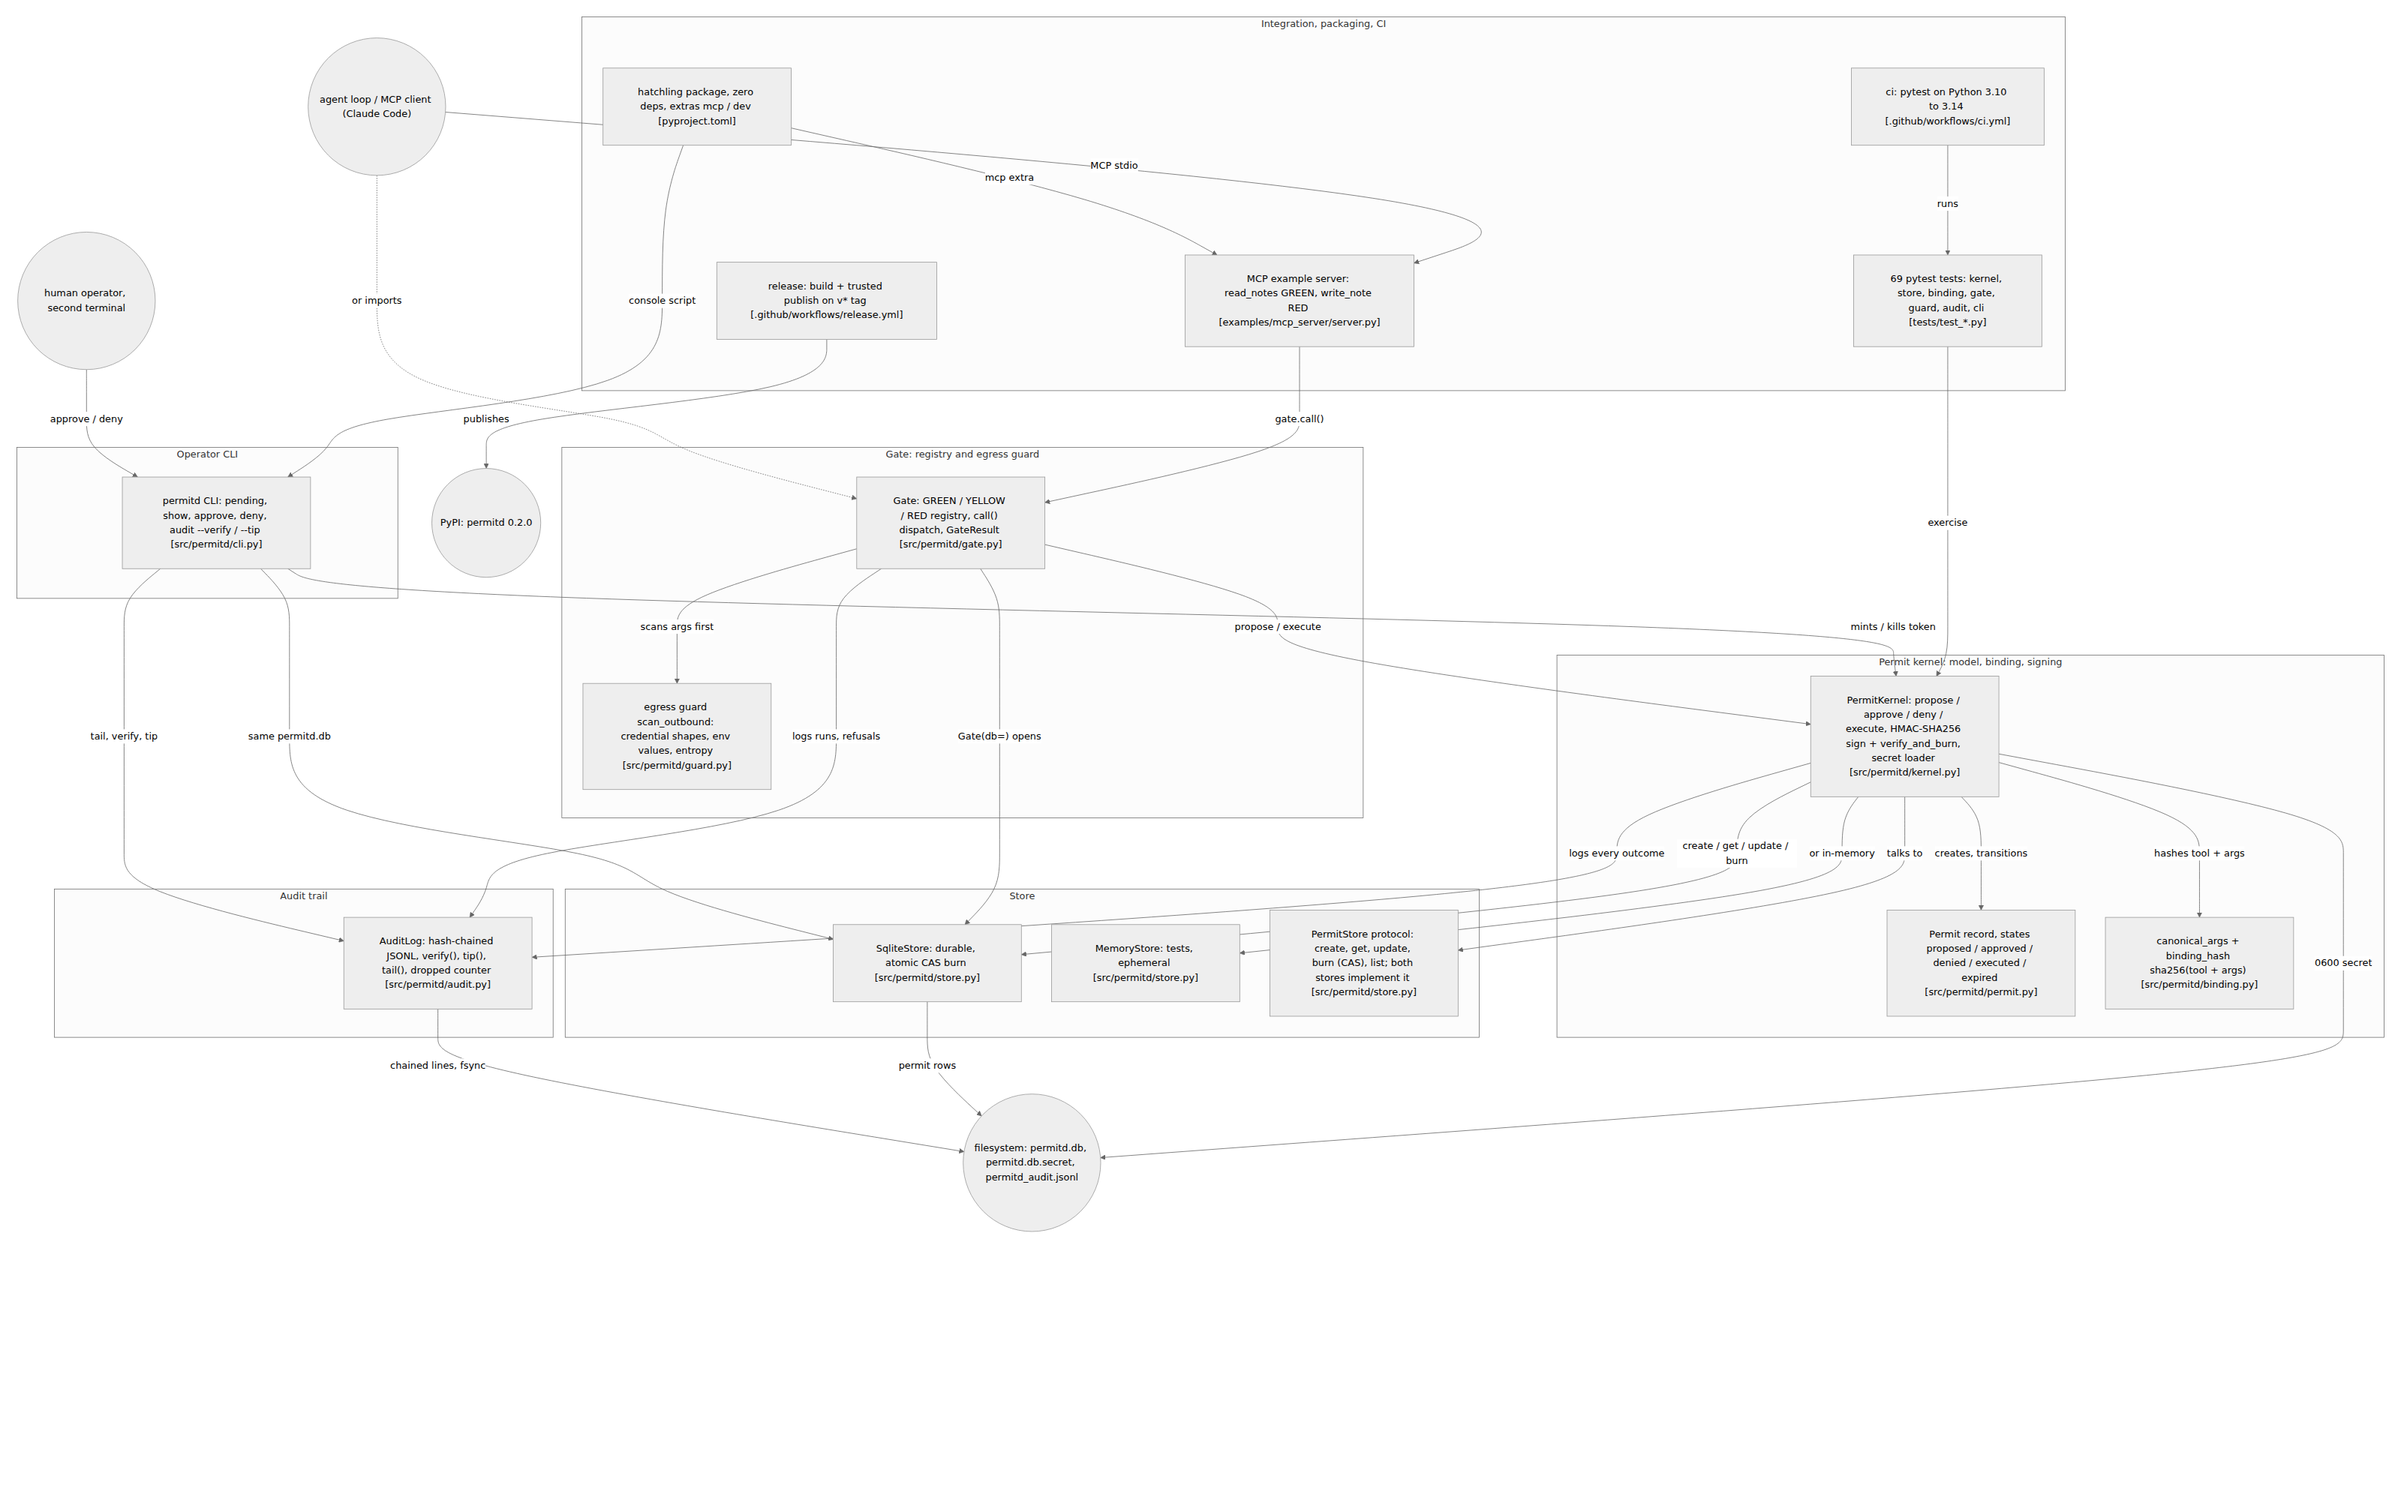
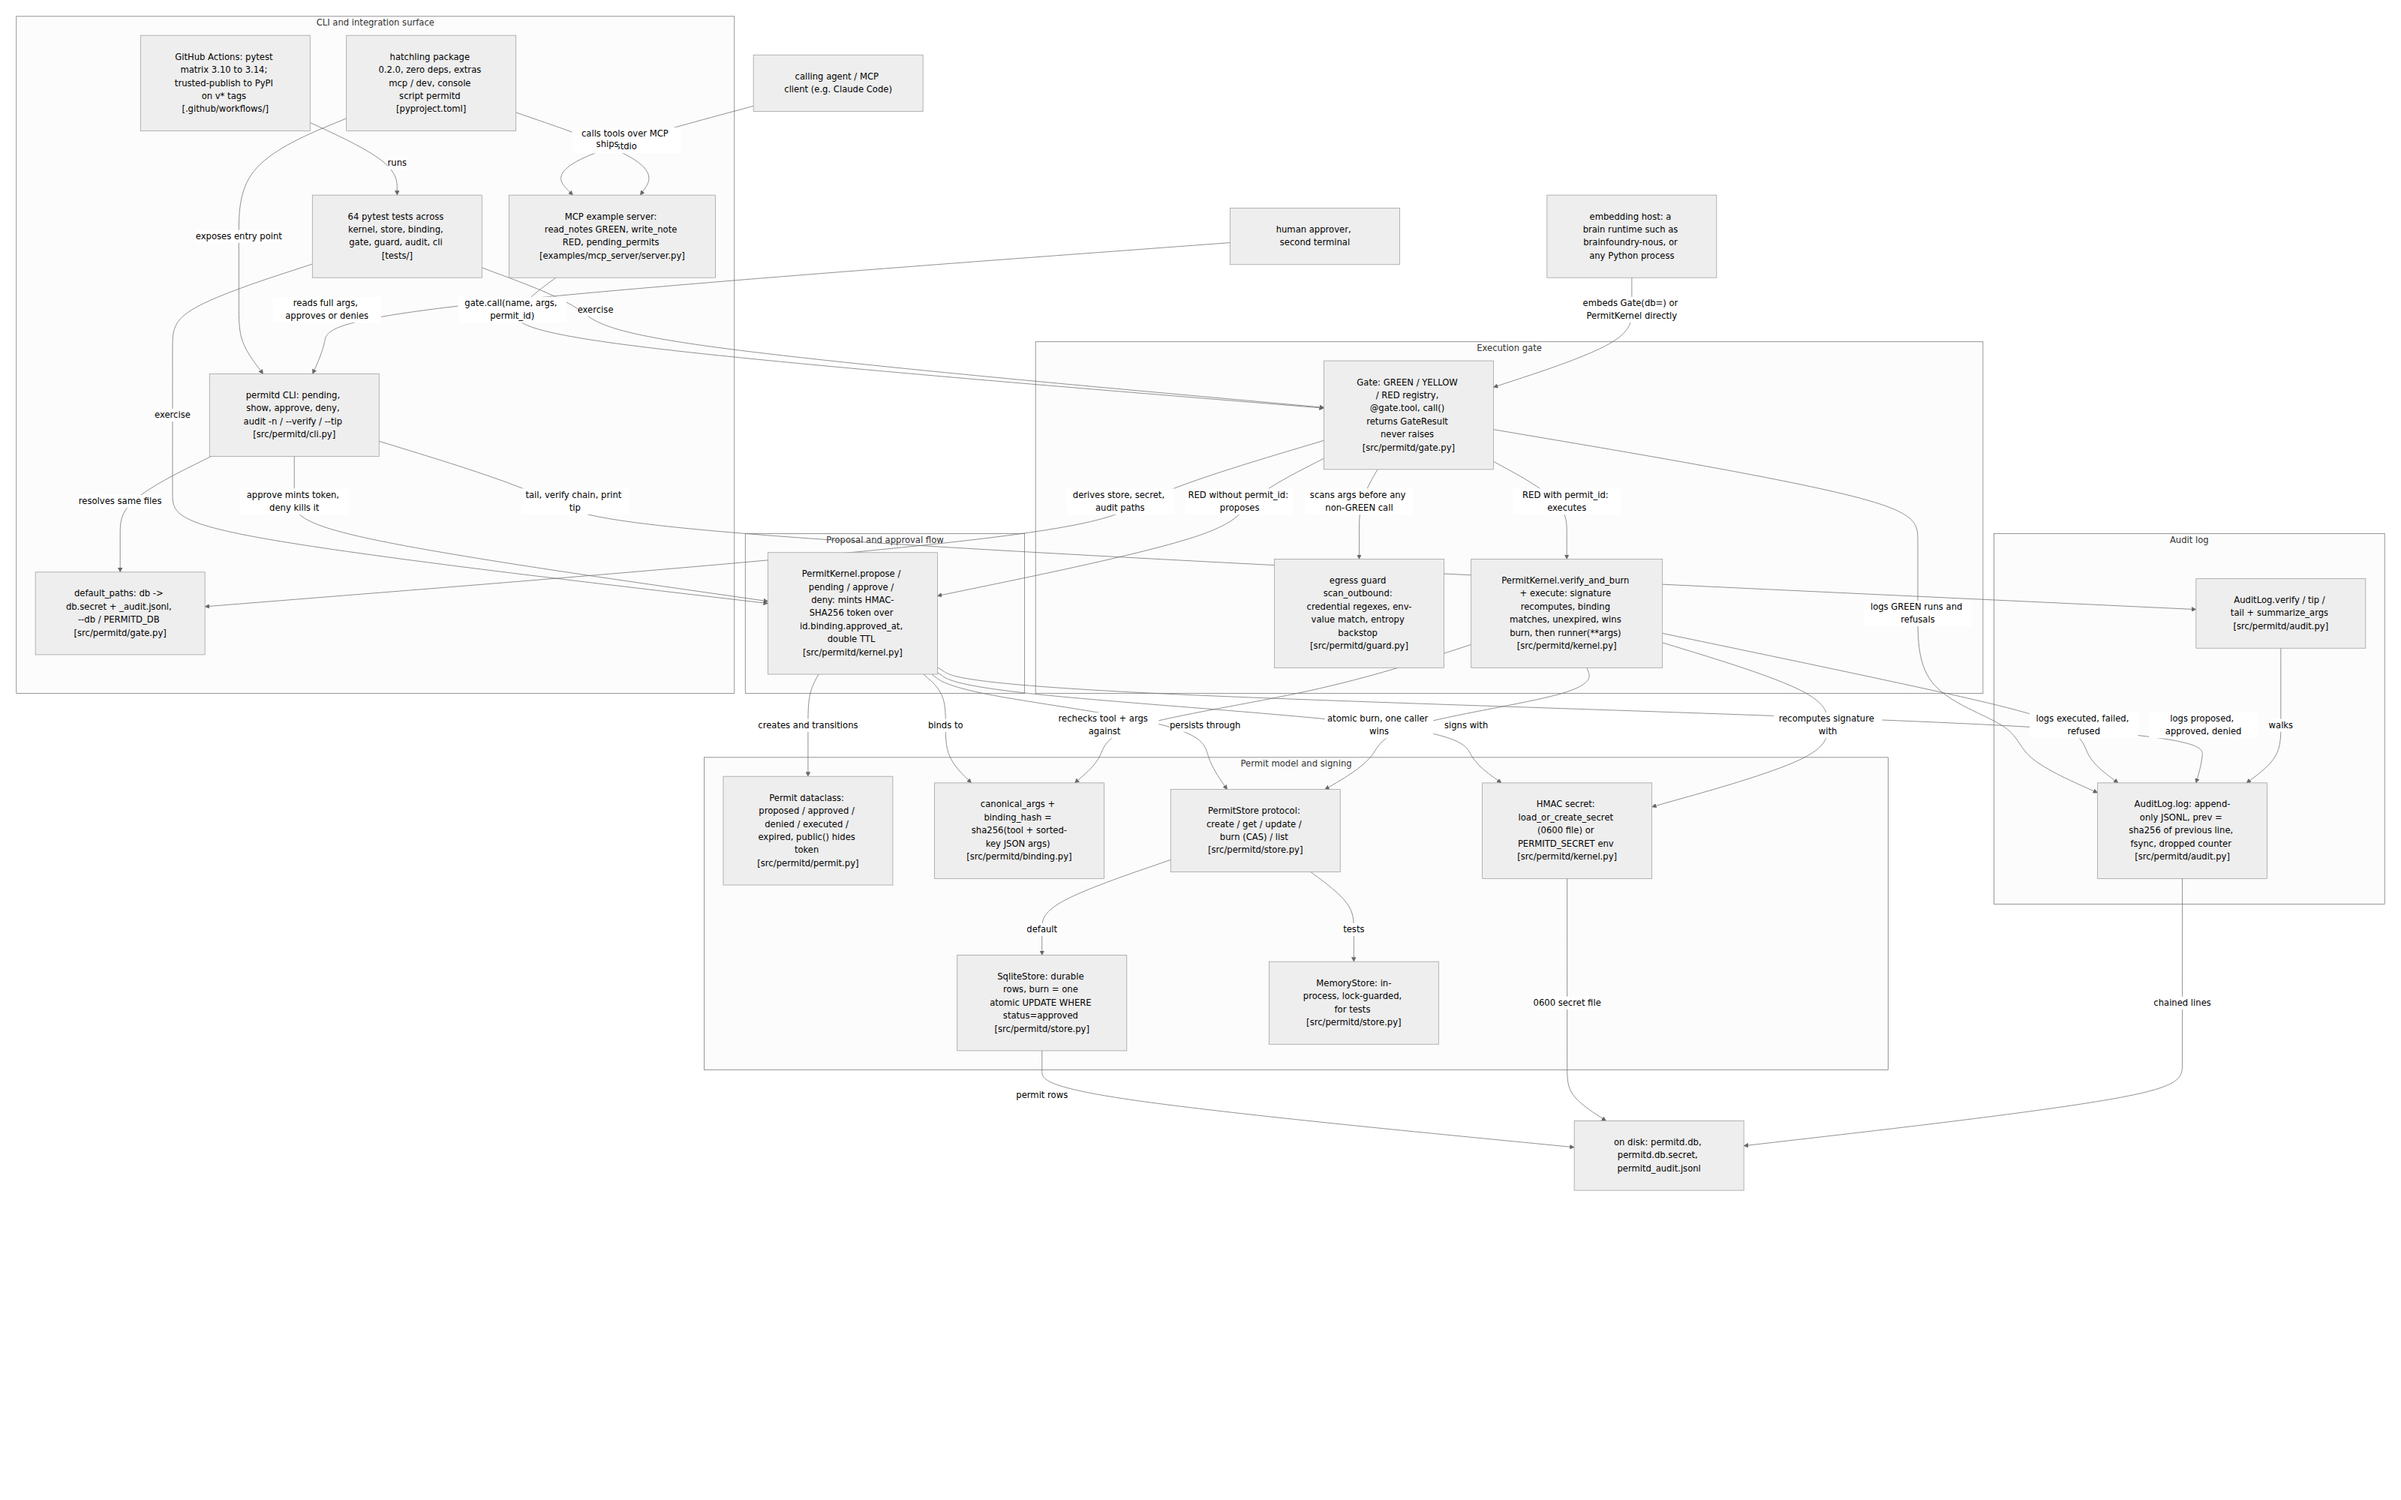
docs: architecture diagram, mermaid + PNG (2026-10-25)

diff --git a/docs/architecture.md b/docs/architecture.md
@@ -7,17 +7,16 @@ created: 2026-10-25
 
 Diagram: [architecture.mmd](architecture.mmd) (mermaid 11, `flowchart TD`) rendered to [architecture.png](architecture.png).
 
-permitd is a stdlib-only Python library (plus a `permitd` console script) that holds the state of "may this tool call run?" across turns of an agent loop. An agent, usually through the MCP example server or by importing `Gate` directly, calls a tool; `Gate` runs the egress guard over the arguments, then for RED-tier tools asks `PermitKernel` to propose a permit bound to `sha256(tool + canonical args)`. A human approves or denies from the `permitd` CLI in another process, which shares the same SQLite store, secret file and audit log via `default_paths`; approval mints a single-use HMAC-SHA256 token with a TTL. The agent's retry carries the permit id, the kernel recomputes the signature, checks the binding and expiry, wins the atomic burn in the store, runs the tool, and every outcome (including refusals) lands as one hash-chained JSONL line that `permitd audit --verify` can walk.
+permitd is a stdlib-only Python library (plus a `permitd` console script) that holds the state of "may this tool call run?" across turns of an agent loop. A host process (the MCP example server, a brain runtime such as brainfoundry-nous, or any Python program) registers tools on a `Gate` with GREEN / YELLOW / RED tiers. Every non-GREEN call first passes the egress guard; a RED call without a `permit_id` makes `PermitKernel.propose` record a `Permit` bound to `sha256(tool + canonical args)` and returns `approval_required`. A human approves or denies from the `permitd` CLI in another process, which meets the library on the same SQLite store, secret file and audit log through `default_paths`; approval mints a single-use HMAC-SHA256 token with a TTL. The agent's retry carries the permit id, `verify_and_burn` recomputes the signature, checks the binding and expiry, wins the atomic compare-and-swap burn in the store, and only then runs the tool. Every outcome, including refusals, lands as one hash-chained JSONL line that `permitd audit --verify` can walk.
 
 | subgraph | responsible for | key files |
 |---|---|---|
-| Gate: registry and egress guard | GREEN/YELLOW/RED tier registry, `call()` dispatch, uniform `GateResult`, standing authorization for YELLOW, egress scan of outbound arguments before any non-GREEN call (including at propose time) | `src/permitd/gate.py`, `src/permitd/guard.py` |
-| Permit kernel: model, binding, signing | propose / approve / deny / verify_and_burn / execute, HMAC-SHA256 token minting and recomputation, double TTL, the `Permit` dataclass and its five states, argument canonicalization and binding hash, secret loading (0600 file or `PERMITD_SECRET`) | `src/permitd/kernel.py`, `src/permitd/permit.py`, `src/permitd/binding.py` |
-| Store | `PermitStore` protocol (five methods, compare-and-swap `burn`), durable `SqliteStore` with atomic burn, `MemoryStore` for tests | `src/permitd/store.py` |
-| Audit trail | append-only JSONL with `prev` = sha256 of the previous line, `verify()`, `tip()`, `tail()`, best-effort writes with a `dropped` counter, `summarize_args` | `src/permitd/audit.py` |
-| Operator CLI | `permitd pending / show / approve / deny / audit [-n, --verify, --tip]`, store selection by `--db`, `$PERMITD_DB` or `./permitd.db` | `src/permitd/cli.py` |
-| Integration, packaging, CI | MCP example server (read_notes GREEN, write_note RED, pending_permits), hatchling package with `mcp` and `dev` extras and the console script, pytest on Python 3.10 to 3.14, trusted-publishing release on `v*` tags, 69 tests across seven files | `examples/mcp_server/server.py`, `pyproject.toml`, `.github/workflows/ci.yml`, `.github/workflows/release.yml`, `tests/` |
+| Permit model and signing | the `Permit` dataclass and its five states (`public()` never exposes the token), argument canonicalization and binding hash, HMAC secret loading (0600 file or `PERMITD_SECRET`), the `PermitStore` protocol with compare-and-swap `burn`, `SqliteStore` (default) and `MemoryStore` (tests) | `src/permitd/permit.py`, `src/permitd/binding.py`, `src/permitd/kernel.py`, `src/permitd/store.py` |
+| Proposal and approval flow | `propose` / `pending` / `approve` / `deny`; token minted over `id.binding_hash.approved_at`; a proposal is approvable for one TTL and an approval executable for another | `src/permitd/kernel.py` |
+| Execution gate | tier registry and `@gate.tool` decorator, `call()` dispatch returning a uniform `GateResult` (never raises), egress scan of outbound arguments before any non-GREEN call and again at execute, `verify_and_burn` + `execute` running the tool only after signature, binding, expiry and the atomic burn all pass | `src/permitd/gate.py`, `src/permitd/guard.py`, `src/permitd/kernel.py` |
+| Audit log | append-only JSONL with `prev` = sha256 of the previous line, fsync per write, best-effort with a `dropped` counter, `verify()`, `tip()`, `tail()`, `summarize_args` | `src/permitd/audit.py` |
+| CLI and integration surface | `permitd pending / show / approve / deny / audit [-n, --verify, --tip]`, store selection by `--db`, `$PERMITD_DB` or `./permitd.db`, `default_paths` convention, MCP example server (read_notes GREEN, write_note RED, pending_permits), hatchling package with `mcp` and `dev` extras, pytest matrix on Python 3.10 to 3.14, trusted-publishing release on `v*` tags, 64 tests across seven files | `src/permitd/cli.py`, `src/permitd/gate.py`, `examples/mcp_server/server.py`, `pyproject.toml`, `.github/workflows/ci.yml`, `.github/workflows/release.yml`, `tests/` |
 
-External things: the agent loop or MCP client (Claude Code) that calls the tools, the human operator in a second terminal, the filesystem (`permitd.db`, `permitd.db.secret`, `permitd_audit.jsonl`, laid out by `default_paths`; `PERMITD_SECRET` in the environment overrides the secret file), and PyPI (permitd 0.2.0).
+External things, drawn outside the subgraphs: the calling agent or MCP client (Claude Code in the quickstart), the human approver in a second terminal, the embedding host (a brain runtime such as brainfoundry-nous, or any Python process that constructs a `Gate`), and the files on disk (`permitd.db`, `permitd.db.secret`, `permitd_audit.jsonl`).
 
 Related: [README](../README.md), [docs/quickstart-claude-code.md](quickstart-claude-code.md), [THREAT_MODEL.md](../THREAT_MODEL.md), [DESIGN.md](../DESIGN.md).
